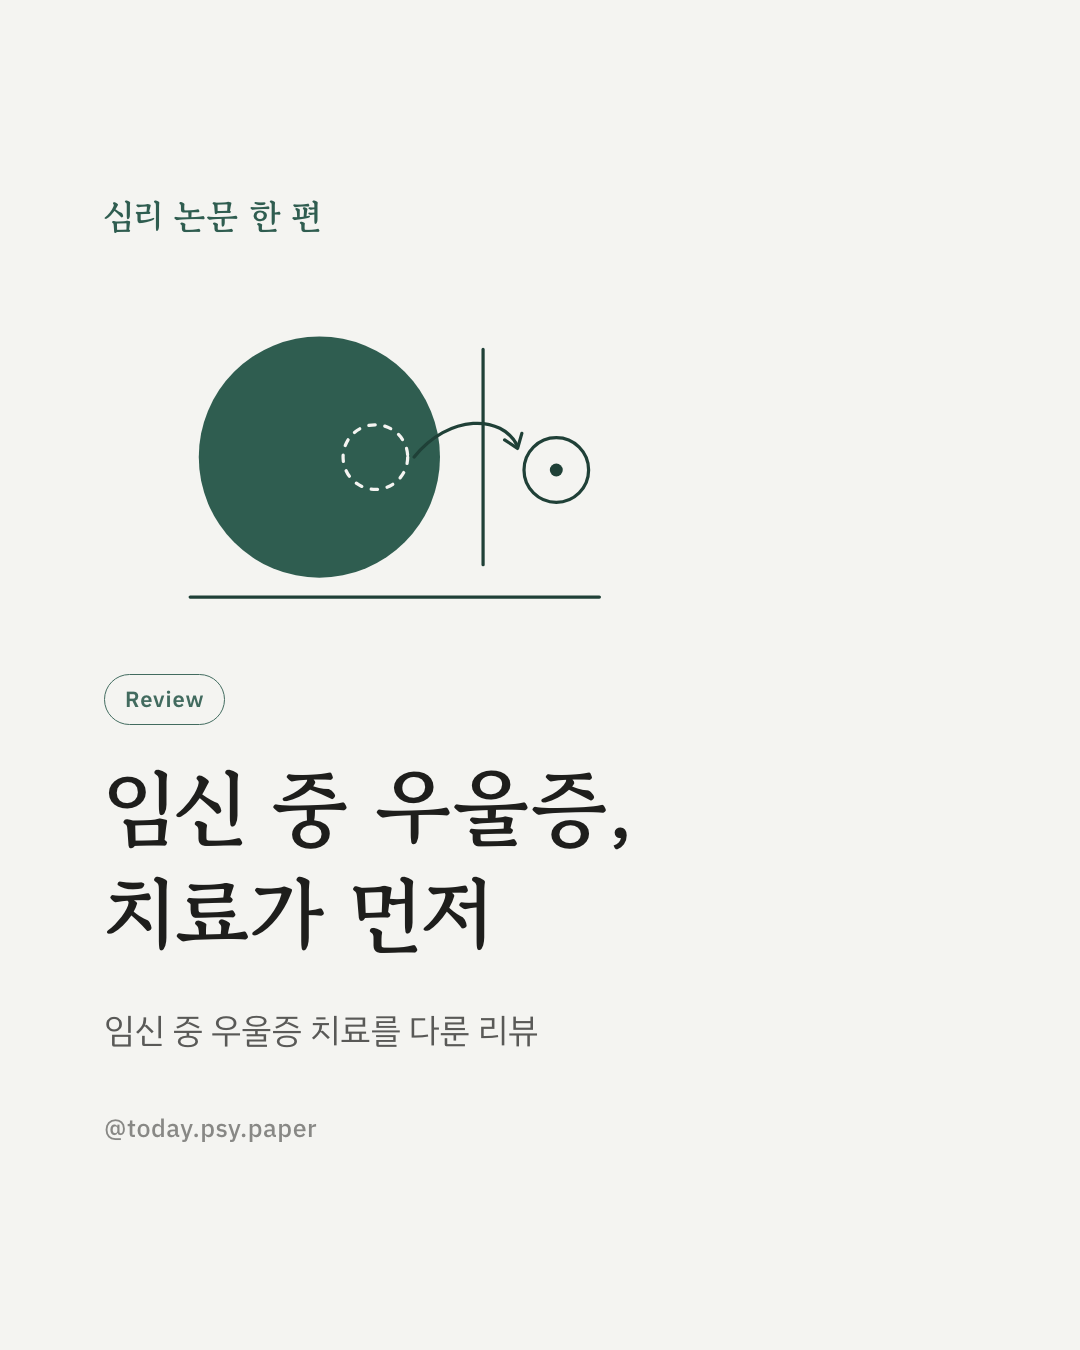
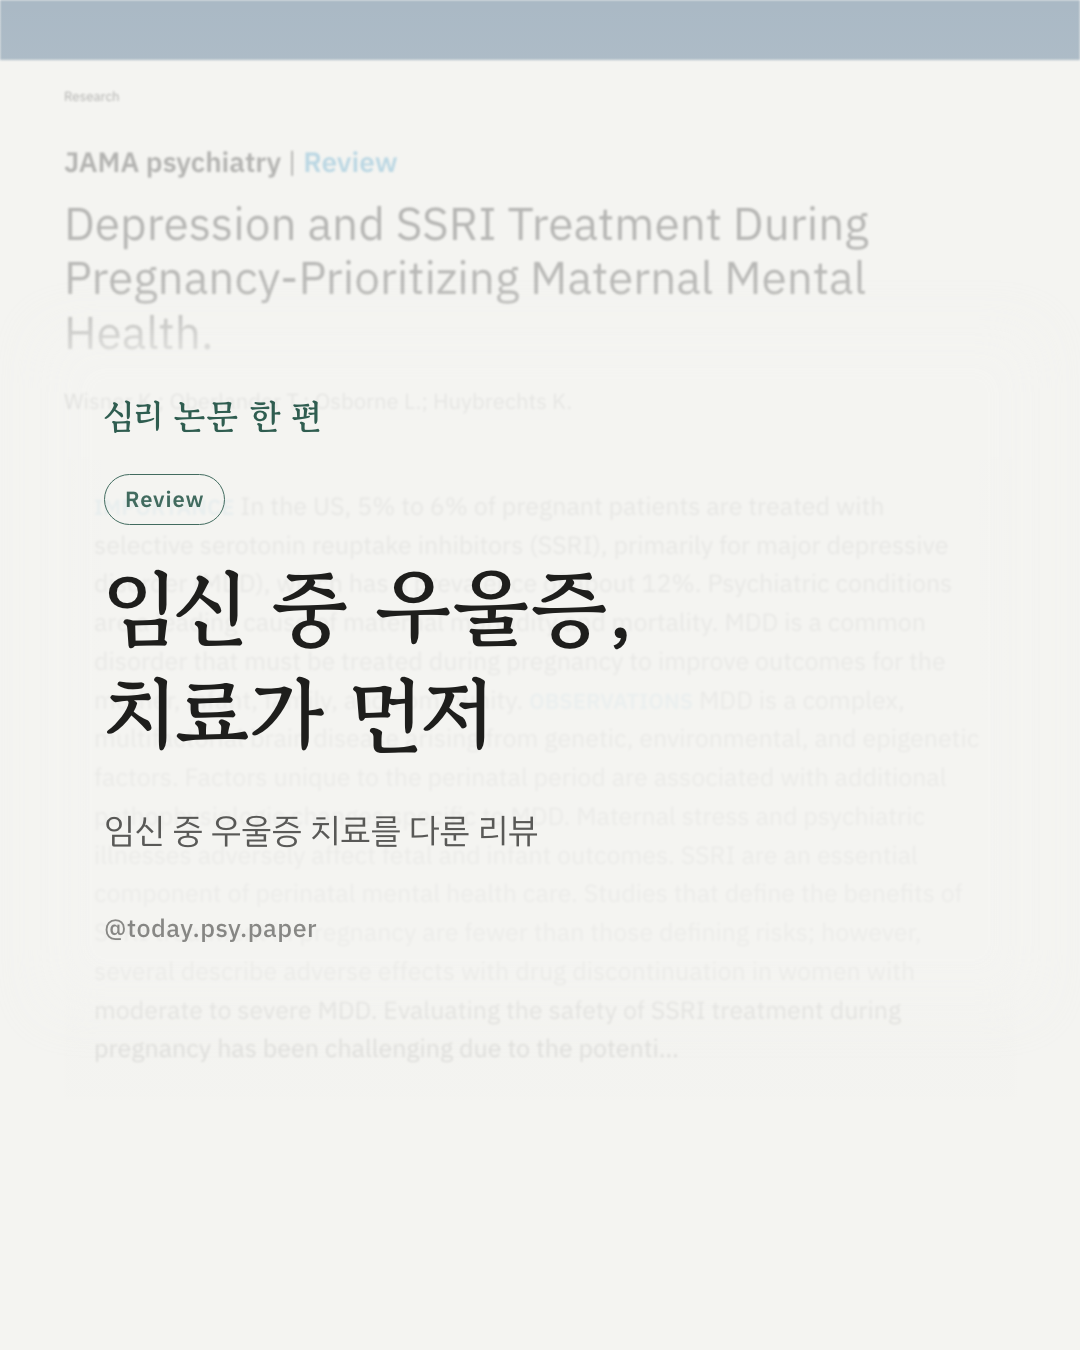
cards: drop 42281529

diff --git a/index.html b/index.html
@@ -9,4 +9,4 @@ a{font-size:18px;color:#8a3c24;text-decoration:none;display:block}
 .reel{background:#efe5d3;border:1px solid #e4d8c2;border-radius:8px;padding:12px 14px;margin-bottom:16px;font-size:14px}
 .reel a{display:inline;font-size:14px}
 code{background:#efe5d3;padding:2px 6px;border-radius:4px;user-select:all}</style></head><body>
-<h1>검수 대기열 (5)</h1><div class="reel">🎬 릴스 초안 대기 — <a href="42119759/reel.html">42119759 영상 보기</a> · 폰 앱에서 업로드(트렌딩 사운드)</div><div class="reel">🎬 릴스 초안 대기 — <a href="42168586/reel.html">42168586 영상 보기</a> · 폰 앱에서 업로드(트렌딩 사운드)</div><div class="reel">🎬 릴스 초안 대기 — <a href="42584886/reel.html">42584886 영상 보기</a> · 폰 앱에서 업로드(트렌딩 사운드)</div><div class="reel">🎬 릴스 초안 대기 — <a href="42778581/reel.html">42778581 영상 보기</a> · 폰 앱에서 업로드(트렌딩 사운드)</div><ul><li><a href="42119759/preview.html">뇌 손상 강박도<br>같은 회로였다</a><span class="m">신경영상 · 9장 · <a href="https://pubmed.ncbi.nlm.nih.gov/42119759/" target="_blank" rel="noopener">PubMed</a> · <a href="https://doi.org/10.1016/j.biopsych.2026.05.001" target="_blank" rel="noopener">원문(DOI)</a> · <code>python3 publish.py 42119759</code></span></li><li><a href="42168586/preview.html">거식증 뇌 부피<br>석 달 뒤 회복</a><span class="m">신경영상 · 9장 · <a href="https://pubmed.ncbi.nlm.nih.gov/42168586/" target="_blank" rel="noopener">PubMed</a> · <a href="https://doi.org/10.1038/s41386-026-02435-w" target="_blank" rel="noopener">원문(DOI)</a> · <code>python3 publish.py 42168586</code></span></li><li><a href="42281529/preview.html">부모를 위한<br>게이트키퍼 교육</a><span class="m">자해자살 · 10장 · <a href="https://pubmed.ncbi.nlm.nih.gov/42281529/" target="_blank" rel="noopener">PubMed</a> · <a href="https://doi.org/10.1111/jcpp.70189" target="_blank" rel="noopener">원문(DOI)</a> · <code>python3 publish.py 42281529</code></span></li><li><a href="42584886/preview.html">임신 중 우울증,<br>치료가 먼저</a><span class="m">임상심리 · 9장 · <a href="https://pubmed.ncbi.nlm.nih.gov/42584886/" target="_blank" rel="noopener">PubMed</a> · <a href="https://doi.org/10.1001/jamapsychiatry.2026.2405" target="_blank" rel="noopener">원문(DOI)</a> · <code>python3 publish.py 42584886</code></span></li><li><a href="42778581/preview.html">덜 힘들었던<br>사람들의 뇌</a><span class="m">신경영상 · 10장 · <a href="https://pubmed.ncbi.nlm.nih.gov/42778581/" target="_blank" rel="noopener">PubMed</a> · <a href="https://doi.org/10.1038/s41380-026-03897-6" target="_blank" rel="noopener">원문(DOI)</a> · <code>python3 publish.py 42778581</code></span></li></ul></body></html>
+<h1>검수 대기열 (4)</h1><div class="reel">🎬 릴스 초안 대기 — <a href="42119759/reel.html">42119759 영상 보기</a> · 폰 앱에서 업로드(트렌딩 사운드)</div><div class="reel">🎬 릴스 초안 대기 — <a href="42168586/reel.html">42168586 영상 보기</a> · 폰 앱에서 업로드(트렌딩 사운드)</div><div class="reel">🎬 릴스 초안 대기 — <a href="42584886/reel.html">42584886 영상 보기</a> · 폰 앱에서 업로드(트렌딩 사운드)</div><div class="reel">🎬 릴스 초안 대기 — <a href="42778581/reel.html">42778581 영상 보기</a> · 폰 앱에서 업로드(트렌딩 사운드)</div><ul><li><a href="42119759/preview.html">뇌 손상 강박도<br>같은 회로였다</a><span class="m">신경영상 · 9장 · <a href="https://pubmed.ncbi.nlm.nih.gov/42119759/" target="_blank" rel="noopener">PubMed</a> · <a href="https://doi.org/10.1016/j.biopsych.2026.05.001" target="_blank" rel="noopener">원문(DOI)</a> · <code>python3 publish.py 42119759</code></span></li><li><a href="42168586/preview.html">거식증 뇌 부피<br>석 달 뒤 회복</a><span class="m">신경영상 · 9장 · <a href="https://pubmed.ncbi.nlm.nih.gov/42168586/" target="_blank" rel="noopener">PubMed</a> · <a href="https://doi.org/10.1038/s41386-026-02435-w" target="_blank" rel="noopener">원문(DOI)</a> · <code>python3 publish.py 42168586</code></span></li><li><a href="42584886/preview.html">임신 중 우울증,<br>치료가 먼저</a><span class="m">임상심리 · 9장 · <a href="https://pubmed.ncbi.nlm.nih.gov/42584886/" target="_blank" rel="noopener">PubMed</a> · <a href="https://doi.org/10.1001/jamapsychiatry.2026.2405" target="_blank" rel="noopener">원문(DOI)</a> · <code>python3 publish.py 42584886</code></span></li><li><a href="42778581/preview.html">덜 힘들었던<br>사람들의 뇌</a><span class="m">신경영상 · 10장 · <a href="https://pubmed.ncbi.nlm.nih.gov/42778581/" target="_blank" rel="noopener">PubMed</a> · <a href="https://doi.org/10.1038/s41380-026-03897-6" target="_blank" rel="noopener">원문(DOI)</a> · <code>python3 publish.py 42778581</code></span></li></ul></body></html>
